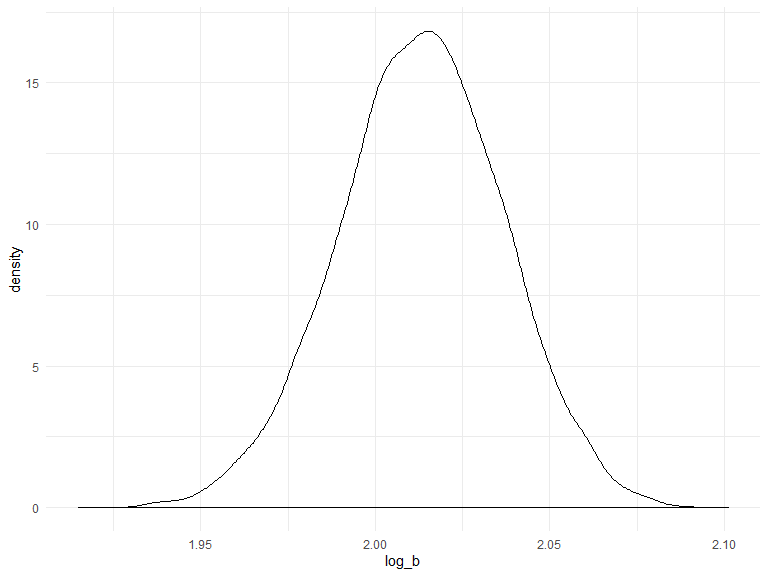
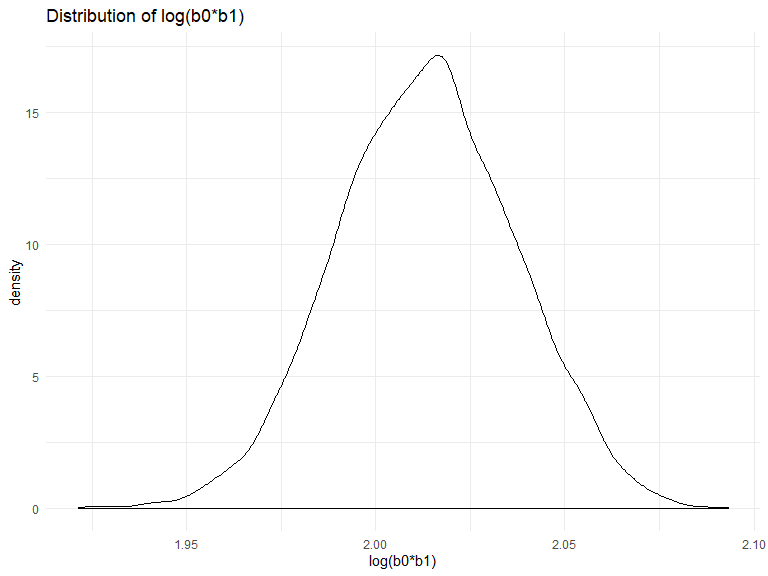
edited bootstrapping code for Problem 2

diff --git a/p8105_hw6_kpc2124.md b/p8105_hw6_kpc2124.md
@@ -263,27 +263,19 @@ Use 5000 bootstrap samples and, for each bootstrap sample, produce
 estimates of these two quantities (r-squared and log(b0\*b1)).
 
 ``` r
-r_squared = 
+r_log = 
   weather_df %>% 
   modelr::bootstrap(n = 5000) %>% 
   mutate(
     models = map(strap, ~lm(tmax ~ tmin, data = .x)),
     results = map(models, broom::glance),
+    results2 = map(models, broom::tidy)
     ) %>% 
   select(-strap,-models) %>% 
   unnest(results) %>% 
-  select(.id,r.squared)
-
-log_b = 
-  weather_df %>% 
-  modelr::bootstrap(n = 5000) %>% 
-  mutate(
-    models = map(strap, ~lm(tmax ~ tmin, data = .x)),
-    results2 = map(models, broom::tidy),
-    ) %>% 
-  select(-strap,-models) %>% 
+  select(.id,r.squared,results2) %>% 
   unnest(results2) %>% 
-  select(.id, term, estimate) %>% 
+  select(.id,r.squared,term,estimate) %>% 
   pivot_wider(
     names_from = term,
     values_from = estimate
@@ -294,10 +286,11 @@ log_b =
 Plot the distribution of your estimates
 
 ``` r
-r_squared %>% 
+r_log %>% 
   ggplot(aes(x = r.squared)) +
   geom_density() +
-  labs(x = "R^2")
+  labs(x = "R^2",
+       title = "Distribution of R^2")
 ```
 
 <img src="p8105_hw6_kpc2124_files/figure-gfm/unnamed-chunk-9-1.png" width="90%" />
@@ -307,20 +300,22 @@ left-skewed, with a few outliers pulling it toward 0.87 on the left. The
 observations peak around 0.9125.
 
 ``` r
-log_b %>% 
+r_log %>% 
   ggplot(aes(x = log_b)) +
-  geom_density()
+  geom_density() +
+  labs(x = "log(b0*b1)",
+       title = "Distribution of log(b0*b1)")
 ```
 
 <img src="p8105_hw6_kpc2124_files/figure-gfm/unnamed-chunk-10-1.png" width="90%" />
 
 The distribution of the log(beta0\*beta1) appears to be more normally
-distributed with a peak around 2.012.
+distributed with a peak around 2.02.
 
 95% confidence intervals
 
 ``` r
-r_squared %>% 
+r_log %>% 
   pull(r.squared) %>% 
   quantile(probs = c(0.025,0.975),na.rm = TRUE)
 ```
@@ -328,15 +323,15 @@ r_squared %>%
     ##      2.5%     97.5% 
     ## 0.8936977 0.9274807
 
-The 95% confidence interval of r-squared is (0.8940,0.9271).
+The 95% confidence interval of r-squared is (0.89,0.93).
 
 ``` r
-log_b %>% 
+r_log %>% 
   pull(log_b) %>% 
   quantile(probs = c(0.025,0.975),na.rm = TRUE)
 ```
 
     ##     2.5%    97.5% 
-    ## 1.965633 2.058469
+    ## 1.966942 2.058528
 
-The 95% confidence interval of log(b0 \* b1) is (1.9660,2.0586).
+The 95% confidence interval of log(b0 \* b1) is (1.97,2.06).
